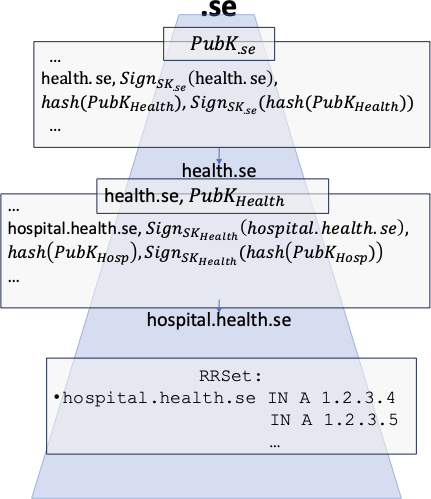
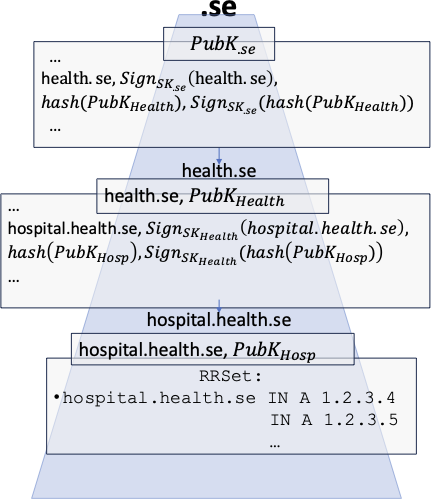
README updates part III

Changed region(s): [[0.1508, 0.6613, 0.8445, 0.7515]]

diff --git a/prototype/README.md b/prototype/README.md
@@ -15,10 +15,13 @@
 ~~CyberNorms is funded internally accross AOS and NSAD.~~ The goal of the project is to support humanitarian and relief organizations as well as establishing internet standards. The digital emblem serves as an indicator to malicious parties that the ICRC, or any hospital, is a non-partisan entity and is just trying to help people.
 This implementation uses DNSSec, specifically TLSA DANE (RFC 6698) to authenticate digital emblems which entities entitled to protections under international law can display signed attestations of their (respective) identities and protected status.
 The end goal is to enable authentication for both the simpler case where the Requestor resides in a sub-zone controlled by the Approver as well as one where the Approver's domain name resides in a different zone than the Requestor (as may be the case in countries like the United States). 
-
+Simplified diagrams of both authentication processes are given below.
+(Note: For the sake of simplicity these diagrams do not distinguish between the Zone Signing Keys (ZSKs) and Key Signing Keys(KSKs).)
+### Single Line of Authentication
 
 ![](assets/DNSSecAuth-SingleLine.png)
 
+![](assets/DNSSecAuth-TwoLines.png)
 
 ## Components
 - __Acme Server__: To be controlled by Approver 
